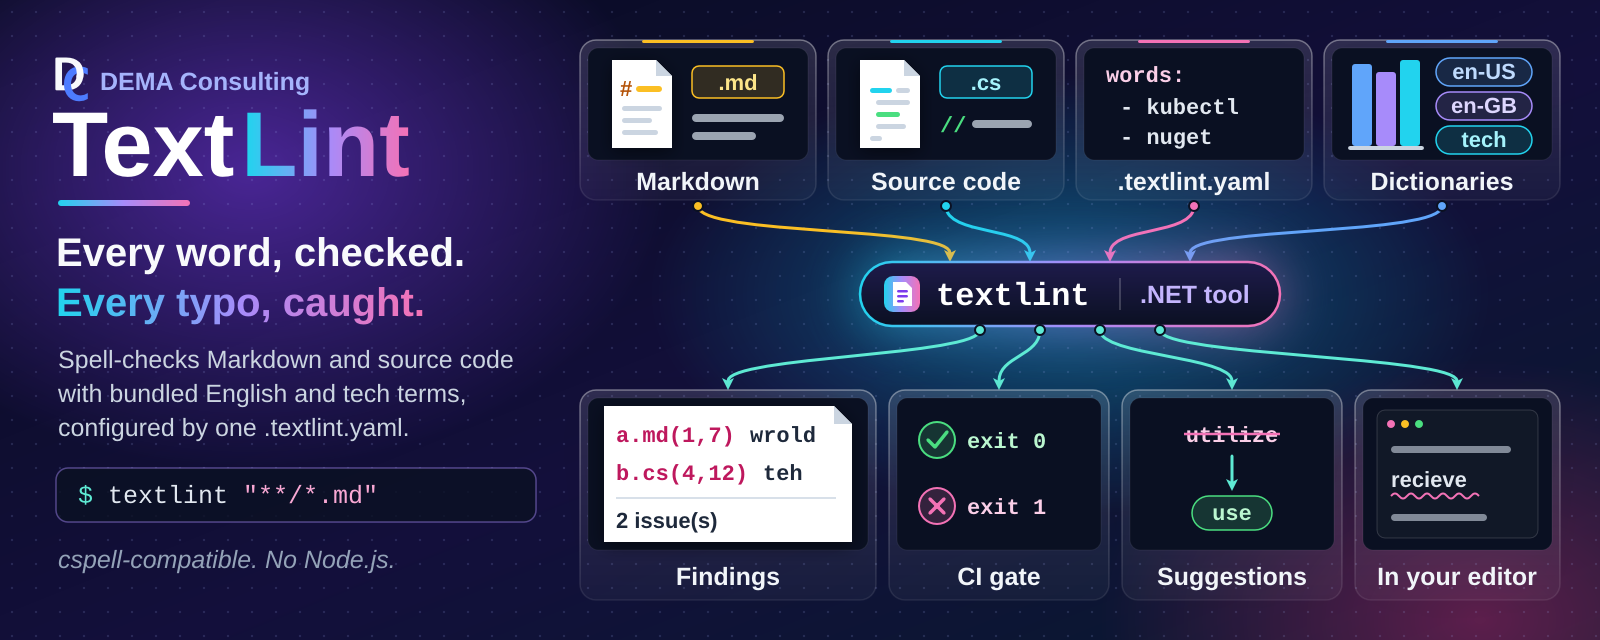
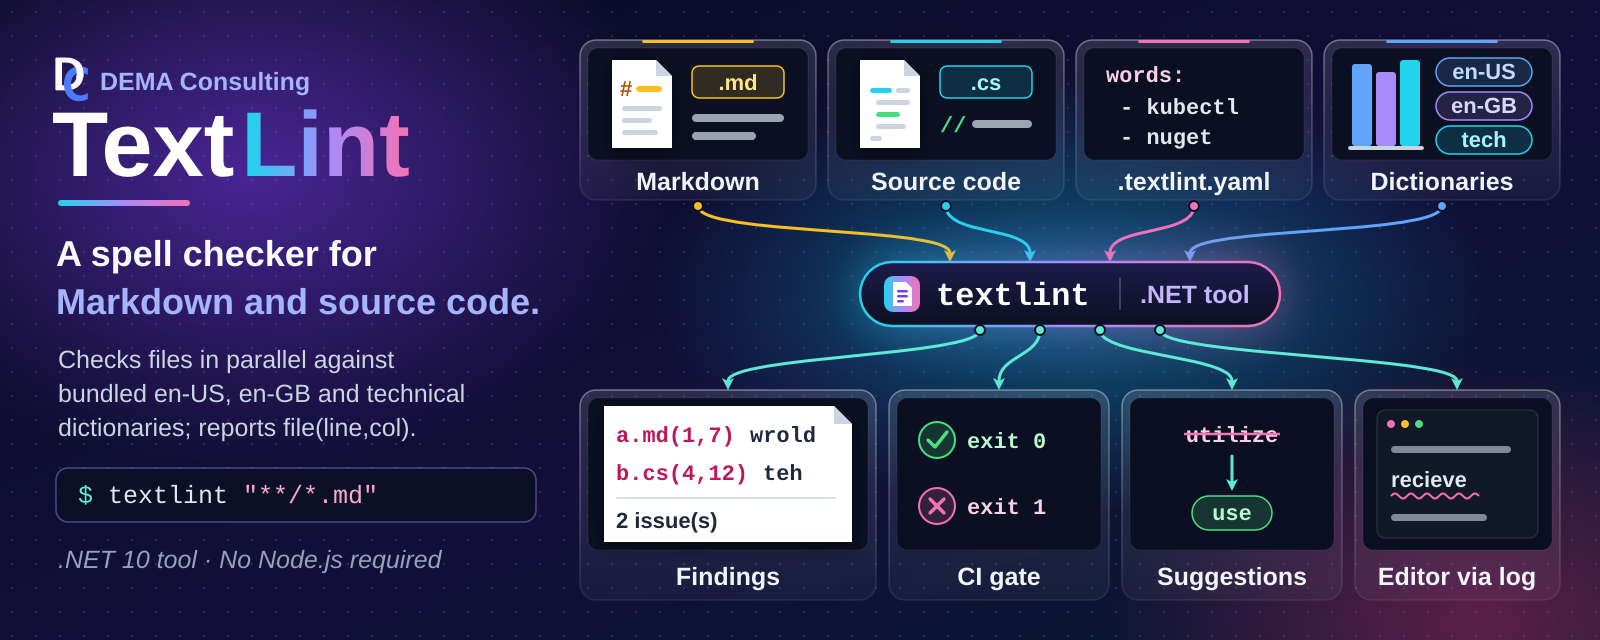
Calm the README hero and make it the H1
Replaces the 'Every word, checked. / Every typo, caught.' slogan with a plain
statement ('A spell checker for / Markdown and source code.'), solid tagline
colors, factual body and footnote, and labels the editor card as downstream.
The hero is now the README H1 with the badges under it (template #66, #67).

diff --git a/README.md b/README.md
@@ -1,4 +1,4 @@
-# TextLint
+# ![TextLint: A spell checker for Markdown and source code][hero]
 
 [![GitHub forks][badge-forks]][link-forks]
 [![GitHub stars][badge-stars]][link-stars]
@@ -8,12 +8,6 @@
 [![Quality Gate][badge-quality]][link-quality]
 [![Security][badge-security]][link-security]
 [![NuGet][badge-nuget]][link-nuget]
-
-![TextLint banner: the TextLint name with the tagline 'Every word, checked. Every typo, caught.' and the command
-'textlint "**/*.md"'. Markdown documents, source code, the project word list in .textlint.yaml, and the bundled
-en-US, en-GB, and technical dictionaries flow on curved arrows into the textlint .NET tool, and arrows lead out to
-findings reported at file(line,column), a CI gate that passes with exit 0 and fails with exit 1, suggestions for
-flagged words, and misspellings underlined in your editor][hero]
 
 TextLint is a fast, cspell-compatible text linter for source code and documentation. It is delivered as the
 `DemaConsulting.TextLint` .NET library and the `DemaConsulting.TextLint.Tool` .NET tool (command `textlint`), which is
